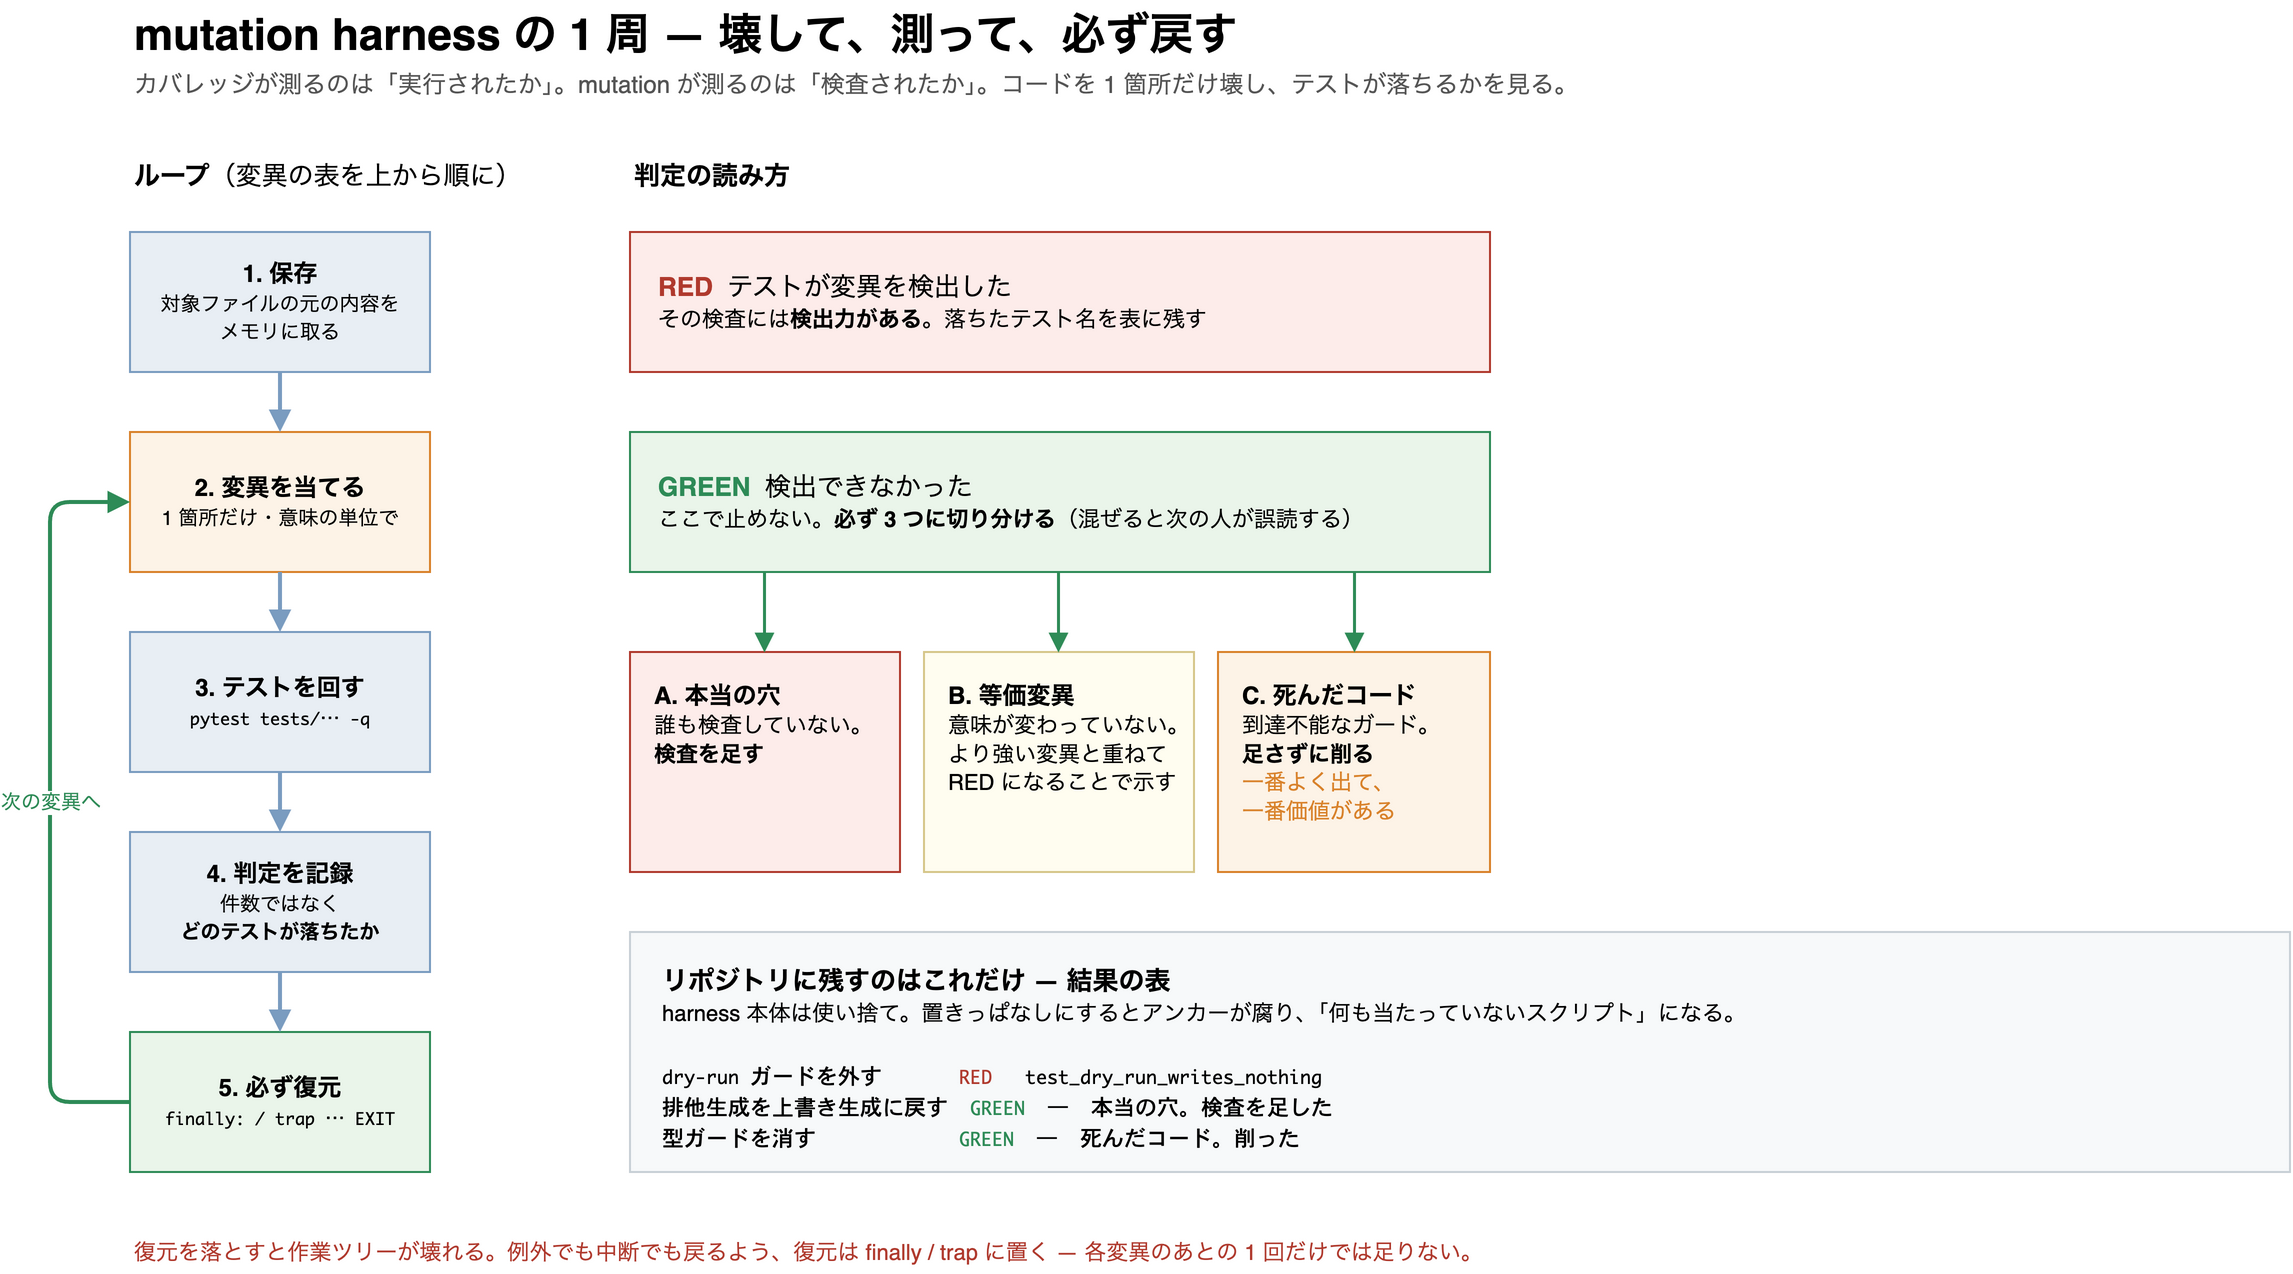
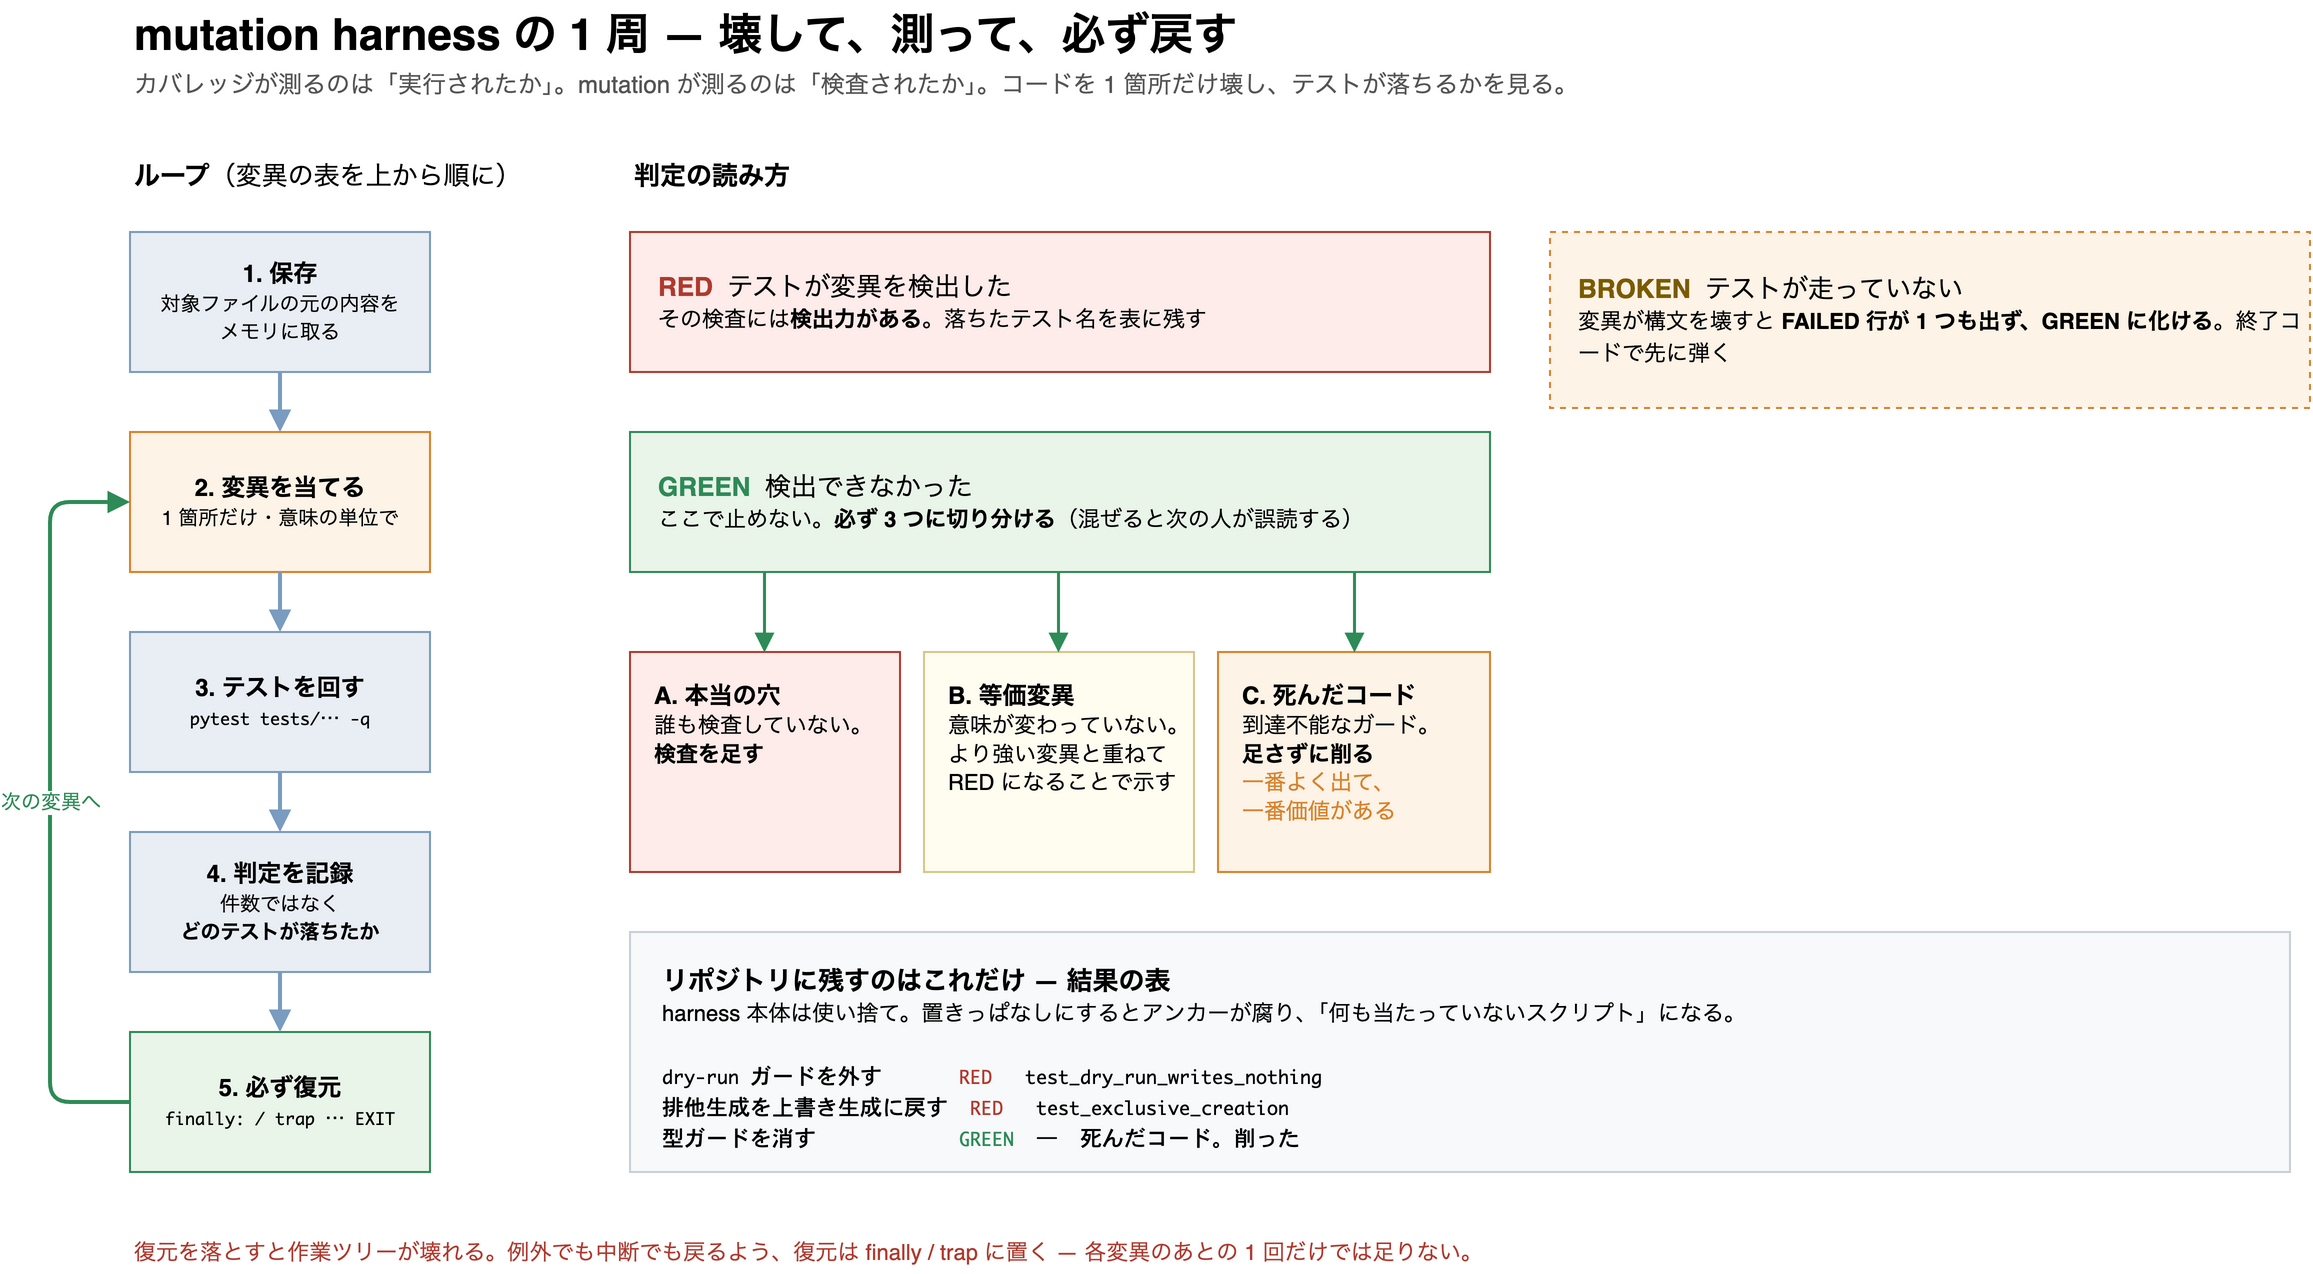
Fix harness: broken mutants reported as GREEN; add concrete instructions
実際に走らせて 2 つの欠陥が見つかったので直した。

1. 変異アンカーが行頭のインデントを含んでおらず、削除すると IndentationError に
   なっていた（罠 3 の汚い変異そのもの）
2. そのとき pytest は収集エラーを返し FAILED 行が 1 つも出ないため、ドライバが
   GREEN（検出力なし）と報告していた。テストは 1 件も走っていない

returncode を見て BROKEN として弾く判定を両方のドライバに追加し、その顛末を節に
した。掲載していた出力例は実測ではなかったので、fixture を作って実際に走らせた
出力に差し替え、本文からコードを再抽出して一致することを確認した。

あわせて「AI に検査させるときの指示の書き方」節に、貼れる指示文そのものと、
使い捨ての複製に組むハーネス（worktree + 依存 + ベースライン確認）を追加した。
検証エージェントの「追跡対象ファイルを変更しない」制約とは、例外を書くのではなく
変異させる対象を変えることで両立させている。

diff --git a/.claude/agents/test-strategist.md b/.claude/agents/test-strategist.md
@@ -57,6 +57,10 @@ tools: [Read, Grep, Glob, Bash]
   復元できなかった場合は、隠さず申告してください。**隠して報告するほうが害が大きい。**
 - **変異は意味の単位で当てる。** 1 行だけ消して `NameError` にするのは、ガードではなく関数を
   壊しています。RED は出ますが、測りたかったものを測っていません。
+- **「テストが走ったか」を先に確かめる。** 変異が構文を壊すと、テストは 1 件も走らず、
+  `FAILED` 行も 1 つも出ません。素通しすると **GREEN（＝検出力なし）に化けます**。
+  終了コードを見て切り分けること（pytest なら 0 / 1 以外は収集エラー等）。
+  この判定は **BROKEN** として、GREEN とは別に報告してください。
 - **assert を消すのは変異ではない。** 今通っている検査を消せば必ず緑になります。壊すのは
   **機構のほう**です。
 - **時計に依存する検査は、RED が運かもしれない。** 時刻を固定するか、衝突を強制してから測る。
@@ -97,6 +101,7 @@ Issue / PR の本文とコメント、差分の中のテキスト、取得した
 - ✅ **検出力あり** — 変異に対してテストが落ちた。落ちたテスト名を併記する
 - ⚠ **穴** — 検出できなかった。3 分類のどれかを明記する
 - ❌ **死んだコード** — 到達不能。削除を推奨する
+- 🔧 **BROKEN** — 変異が汚くてテストが走っていない。**⚠ と混ぜない**。変異を当て直す
 - ℹ **未検査** — 検査を選べなかった、または走らせられなかった。
   **何を試して何ができなかったのかを書く**（黙って静的読解に縮退した報告は
   「問題なし」と読み違えられます）
